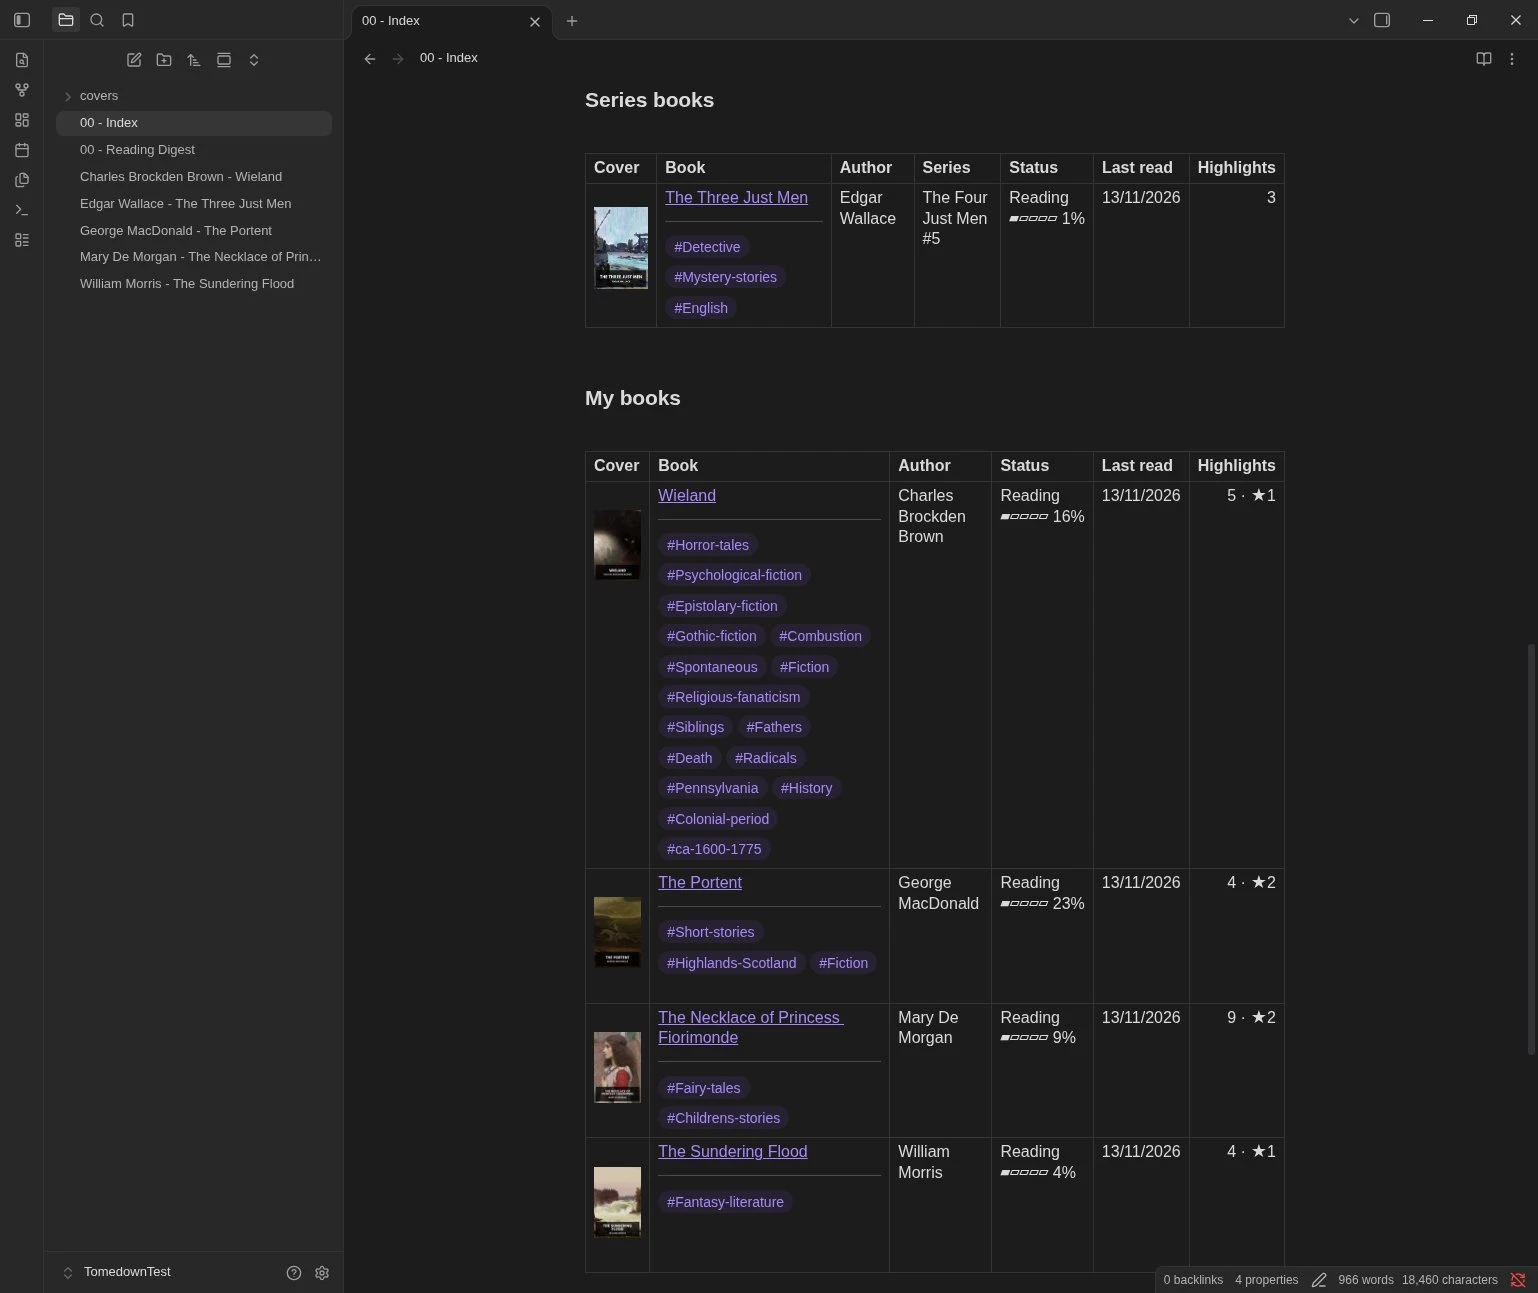
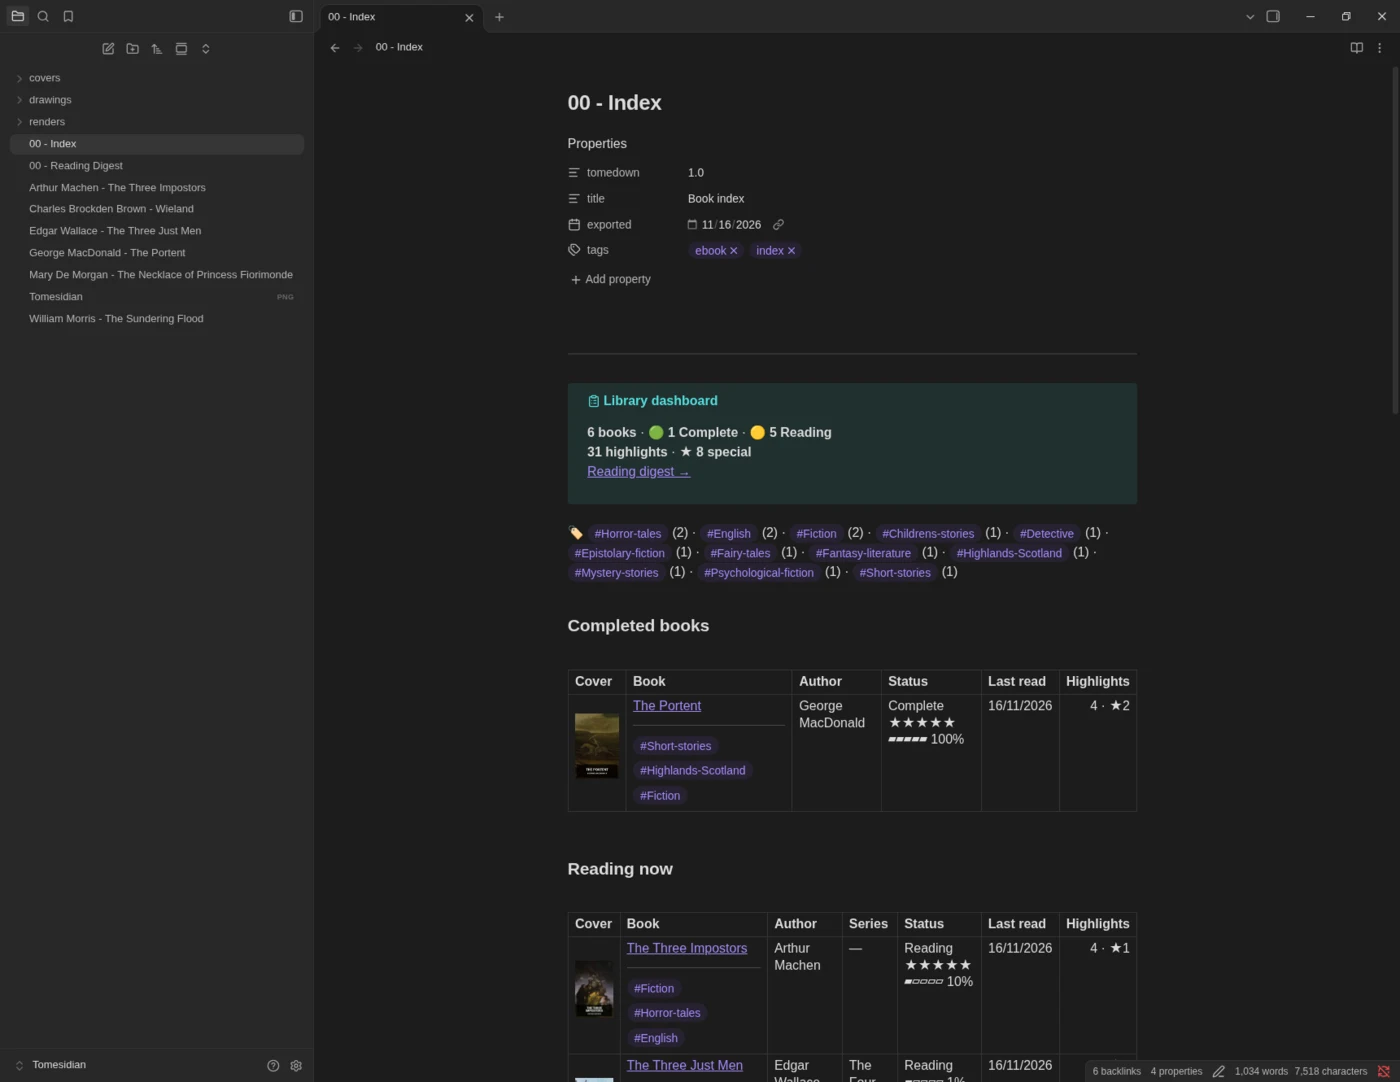
docs(site): integrate v2.1.0 Obsidian screenshots with gentle Ken Burns zoom

diff --git a/site/src/assets/css/main.css b/site/src/assets/css/main.css
@@ -1611,18 +1611,31 @@ mark { background: var(--hl); color: var(--hl-ink); padding: 0 0.15em; }
   100% { transform: scale(1.85); }
 }
 
+.doc-shot-frame img.zoom-modules,
+.doc-shot-frame img[src*="book_modules_v210.webp"] {
+  transform-origin: 54% 46%;
+  animation: kenBurnsModules 9s ease-out forwards;
+}
+@keyframes kenBurnsModules {
+  0% { transform: scale(1); }
+  100% { transform: scale(1.22); }
+}
+
 .doc-shot-frame img.zoom-index,
-.doc-shot-frame img[src*="index-obsidian.webp"] {
-  transform-origin: 52% 42%;
+.doc-shot-frame img[src*="index-obsidian.webp"],
+.doc-shot-frame img[src*="index_v210_trophy_dashboard.webp"] {
+  transform-origin: 54% 48%;
   animation: kenBurnsIndex 9s ease-out forwards;
 }
 @keyframes kenBurnsIndex {
   0% { transform: scale(1); }
-  100% { transform: scale(1.28); }
+  100% { transform: scale(1.24); }
 }
 
-.doc-shot-frame img[src*="digest-obsidian.webp"] {
-  transform-origin: 54% 28%;
+.doc-shot-frame img.zoom-digest,
+.doc-shot-frame img[src*="digest-obsidian.webp"],
+.doc-shot-frame img[src*="reading_digest_v210.webp"] {
+  transform-origin: 54% 52%;
   animation: kenBurnsDigest 9s ease-out forwards;
 }
 @keyframes kenBurnsDigest {

diff --git a/docs/file-format.md b/docs/file-format.md
@@ -83,23 +83,19 @@ tags:
 <!-- tomedown:end body -->
 ```
 
-<!-- SCREENSHOT_PLACEHOLDER: assets/obsidian/book_modules_v210.png -->
-> [!NOTE] **[SCREENSHOT DA REALIZZARE 1/2: Moduli Intestazione Libro in Obsidian]**
-> - **File di destinazione:** `assets/obsidian/book_modules_v210.png`
-> - **Inquadratura:** Zoomato in *Reading View* sulla parte centrale (saltando lo YAML lungo e la copertina alta).
-> - **Dettagli da mostrare:**
->   - Titolo H1 `# The Three Impostors` + H3 `### by Arthur Machen`.
->   - Bacheca di lettura (`> [!book] Reading dashboard`) con stato, stelle e date.
->   - Sinossi collassabile (`> [!abstract]- Book synopsis`) e tag cliccabili (`#Fiction #Horror-tales`).
->   - Box Panoramica (`> [!summary] Overview`) e Vetrina citazioni speciali (`> [!highlight]- ★ Special highlights`).
+<figure class="doc-shot">
+  <div class="doc-shot-frame">
+    <img class="zoom-modules" src="../assets/obsidian/book_modules_v210.webp" alt="Book note modules in Obsidian: Reading dashboard, collapsible synopsis, tags, Overview callout, and Special highlights showcase" />
+  </div>
+  <figcaption>Book note header modules in Obsidian: Reading dashboard, collapsible synopsis, tags, Overview, and Special highlights.</figcaption>
+</figure>
 
-<!-- SCREENSHOT_PLACEHOLDER: assets/obsidian/book_quotes_v210.png -->
-> [!NOTE] **[SCREENSHOT DA REALIZZARE 2/2: Citazioni con Date Letterarie & Contesto]**
-> - **File di destinazione:** `assets/obsidian/book_quotes_v210.png`
-> - **Inquadratura:** Zoomato su 2 citazioni consecutive (una speciale `> [!highlight]` e una normale) in *Reading View*.
-> - **Dettagli da mostrare:**
->   - Nuovo formato data/ora letterario: `- **p. 5** · 16 Nov 2026 | 09:41`.
->   - Riga `- **Context:**` con contesto estratto dal testo.
+<figure class="doc-shot">
+  <div class="doc-shot-frame">
+    <img src="../assets/obsidian/book_quotes_v210.webp" alt="Highlights in Obsidian showing literary timestamps and extracted sentence context" />
+  </div>
+  <figcaption>Special callout and standard blockquote highlights with literary timestamps and surrounding context.</figcaption>
+</figure>
 
 The sample above reflects an English interface. When running KOReader in Italian, German, French, Spanish, or Brazilian Portuguese, all exported headings and status labels are translated automatically (see [Languages](developing.md#languages)).
 
@@ -258,15 +254,12 @@ Under *Settings → Index*, you can enable rich modular components in `00 - Inde
 - **Tag Display Folding (*Index tags display*)**:
   Choose between **Show all**, **First 3 (+N)**, or **Collapsible (<details>)** to fold extensive tag lists behind an expandable HTML `<details>` summary.
 
-<!-- SCREENSHOT_PLACEHOLDER: assets/obsidian/index_v210_trophy_dashboard.png -->
-> [!NOTE] **[SCREENSHOT DA REALIZZARE: Indice con Trofei e Dashboard in Obsidian]**
-> - **File di destinazione:** `assets/obsidian/index_v210_trophy_dashboard.png`
-> - **Inquadratura:** Nota `00 - Index.md` aperta in Obsidian.
-> - **Dettagli da mostrare:**
->   - La sezione *Bacheca libreria* / Dashboard con i totali.
->   - La stanza dei trofei `### Completed books` con le stelle e i libri completati.
->   - La tabella principale dei libri con tag collassati o compatti.
->   - La nuvola di tag in calce alla pagina.
+<figure class="doc-shot">
+  <div class="doc-shot-frame">
+    <img class="zoom-index" src="../assets/obsidian/index_v210_trophy_dashboard.webp" alt="00 - Index.md in Obsidian showing Library dashboard, Tag cloud, Completed books trophy room, and Reading now" />
+  </div>
+  <figcaption><code>00 - Index.md</code> in Obsidian: Library dashboard, Tag cloud, and Completed books trophy room.</figcaption>
+</figure>
 
 ---
 
@@ -288,10 +281,12 @@ For devices equipped with a stylus (Kindle Scribe, Kobo Sage/Elipsa, Android e-i
    - Each drawing receives an Obsidian block ID (`^hl-...`), allowing you to link directly to or embed the handwritten drawing anywhere in your vault: `![[Book Title#^hl-3a8f19bc]]`.
    - Any text note attached to the stylus annotation in KOReader appears right below as a formatted user note.
 
-<!-- SCREENSHOT_PLACEHOLDER: assets/obsidian/handwritten_drawing_embed.png -->
-> [!NOTE] **[SCREENSHOT DA REALIZZARE: Embed Disegno Stylus in Obsidian]**
-> - **File di destinazione:** `assets/obsidian/handwritten_drawing_embed.png`
-> - **Inquadratura:** Dettaglio di una nota libro in Obsidian che mostra un disegno o annotazione a penna/stylus (SVG o PNG) perfettamente visualizzato tra il testo.
+<figure class="doc-shot">
+  <div class="doc-shot-frame">
+    <img src="../assets/obsidian/handwritten_drawing_embed.webp" alt="Handwritten SVG stylus drawing embedded inside an Obsidian book note with block ID and literary timestamp" />
+  </div>
+  <figcaption>Pure-Lua vector SVG drawing extracted from KOReader and embedded natively in Obsidian.</figcaption>
+</figure>
 
 ---
 
@@ -345,13 +340,9 @@ Key features of the Reading Digest:
 - **Divider Between Books**: A clean rule `---` cleanly separates different volumes read on the same calendar day.
 - **Overview Block Support**: Adopts your configured *Overview style* (Inline, Blockquote, Callout, Table) for library stats.
 
-<!-- SCREENSHOT_PLACEHOLDER: assets/obsidian/reading_digest_v210.png -->
-> [!NOTE] **[SCREENSHOT DA REALIZZARE: Reading Digest in Obsidian]**
-> - **File di destinazione:** `assets/obsidian/reading_digest_v210.png`
-> - **Inquadratura:** Documento `00 - Reading Digest.md` aperto in Obsidian.
-> - **Dettagli da mostrare:**
->   - Titolo `# Reading digest` e citazione letteraria iniziale.
->   - Riepilogo statistiche (libri, highlights, citazioni speciali).
->   - Intestazione giorno `## 16 Nov 2026`.
->   - Due libri diversi sotto la stessa data, separati dalla linea orizzontale `---`.
->   - Metadati orari puliti sotto ogni citazione (es. `· 09:41`).
+<figure class="doc-shot">
+  <div class="doc-shot-frame">
+    <img class="zoom-digest" src="../assets/obsidian/reading_digest_v210.webp" alt="00 - Reading Digest.md in Obsidian showing literary date headings, horizontal book dividers, and clean quote times" />
+  </div>
+  <figcaption><code>00 - Reading Digest.md</code> in Obsidian: literary day headings, thin book dividers, and clean quote times.</figcaption>
+</figure>

diff --git a/site/src/docs-extra/universal-highlights.md b/site/src/docs-extra/universal-highlights.md
@@ -140,6 +140,13 @@ Starting in **v2.1.0**, you can configure rich visual modules for every exported
 - **Body tags**: appends `#tag1 #tag2` clickable hashtags directly below the header.
 - **Special highlights showcase**: generates a collapsible `> [!highlight]- ★ Special highlights (N)` section showcasing your starred quotes at the top.
 
+<figure class="doc-shot">
+  <div class="doc-shot-frame">
+    <img class="zoom-modules" src="{{base}}/assets/img/book_modules_v210.webp" alt="Book note header modules in Obsidian: Reading dashboard, collapsible synopsis, tags, Overview, and Special highlights" />
+  </div>
+  <figcaption>Book layout in Obsidian: Reading dashboard, collapsible Book synopsis, clickable tags, Overview callout, and Special highlights showcase.</figcaption>
+</figure>
+
 ## Handwritten notes & Stylus drawings
 
 If your device supports a stylus (e.g. Kindle Scribe, Kobo Sage/Elipsa, Android e-ink, or via KOReader's `pencil.koplugin`), Tomedown extracts handwritten annotations from your `.sdr` directory:
@@ -147,6 +154,13 @@ If your device supports a stylus (e.g. Kindle Scribe, Kobo Sage/Elipsa, Android 
 - Point-sequence pen strokes are converted to crisp **SVG** vector files.
 - Drawings are saved into the `drawings/` folder inside your vault (customizable via *Settings → Style → Drawings folder*).
 - Drawings are embedded with standard Markdown syntax (`![Handwritten note · p. X](drawings/...)`) and receive permanent block IDs (`^hl-xxxxxxxx`).
+
+<figure class="doc-shot">
+  <div class="doc-shot-frame">
+    <img src="{{base}}/assets/img/handwritten_drawing_embed.webp" alt="Handwritten SVG stylus drawing embedded in an Obsidian book note" />
+  </div>
+  <figcaption>Vector SVG stylus drawing embedded natively inside the note with block ID and literary timestamp.</figcaption>
+</figure>
 
 ## Personal notes format (Inline vs Footnotes)
 
